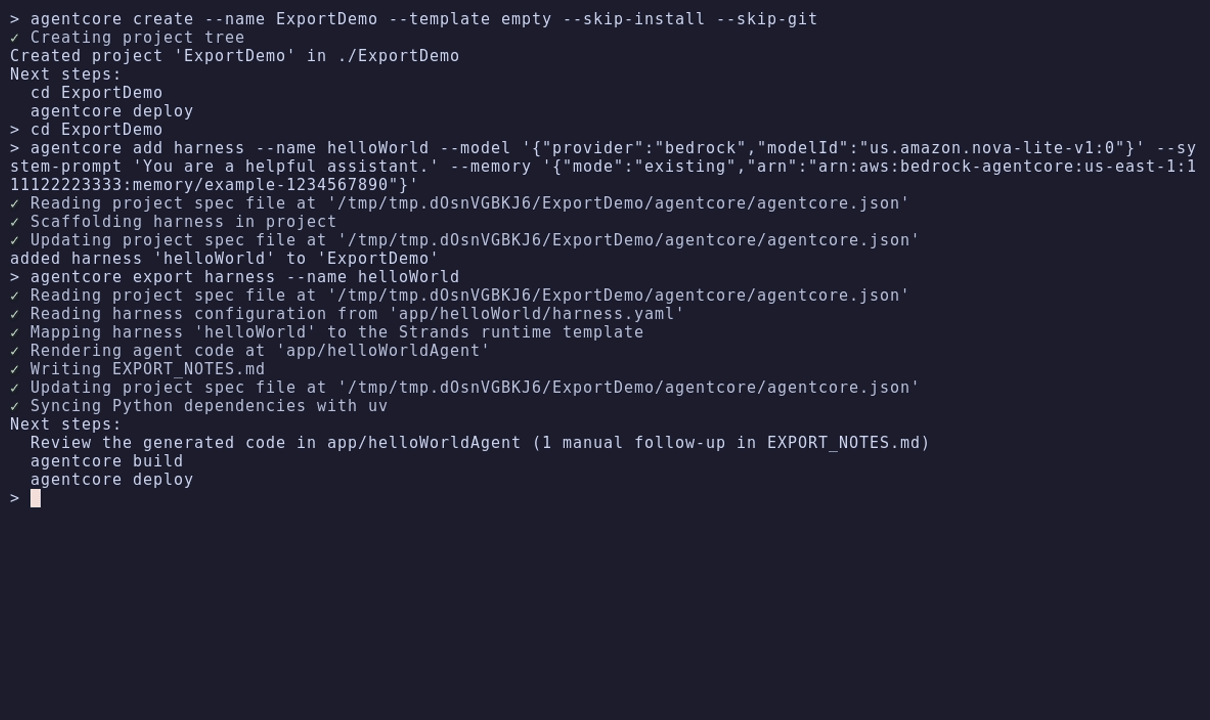
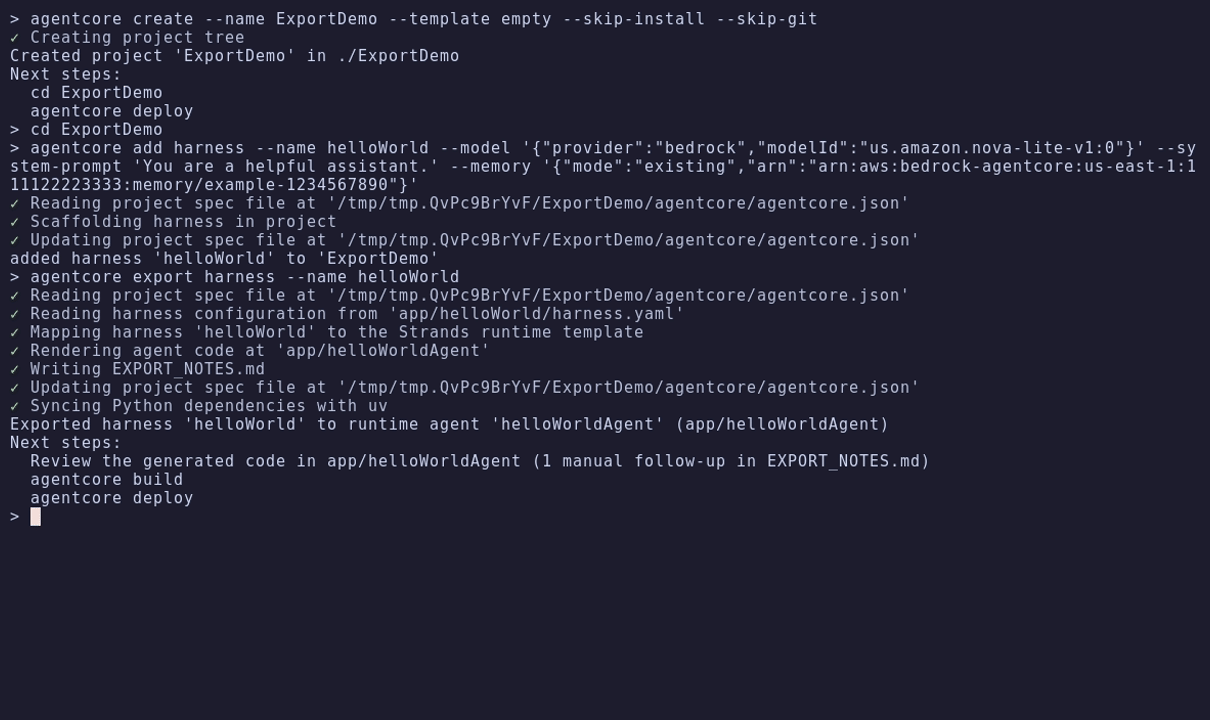
docs(export): refresh VHS recording

diff --git a/evidence/harness-export-vhs/README.md b/evidence/harness-export-vhs/README.md
@@ -1,6 +1,6 @@
 # Harness export recorded with VHS
 
-Recorded with VHS 0.11.0 against the compiled Linux CLI from PR #65.
+Recorded with VHS 0.11.0 against the compiled Linux CLI from PR #2552 at `cb6d67f39`.
 
 - [GIF](harness-export-vhs.gif)
 - [VHS tape](harness-export.tape)
